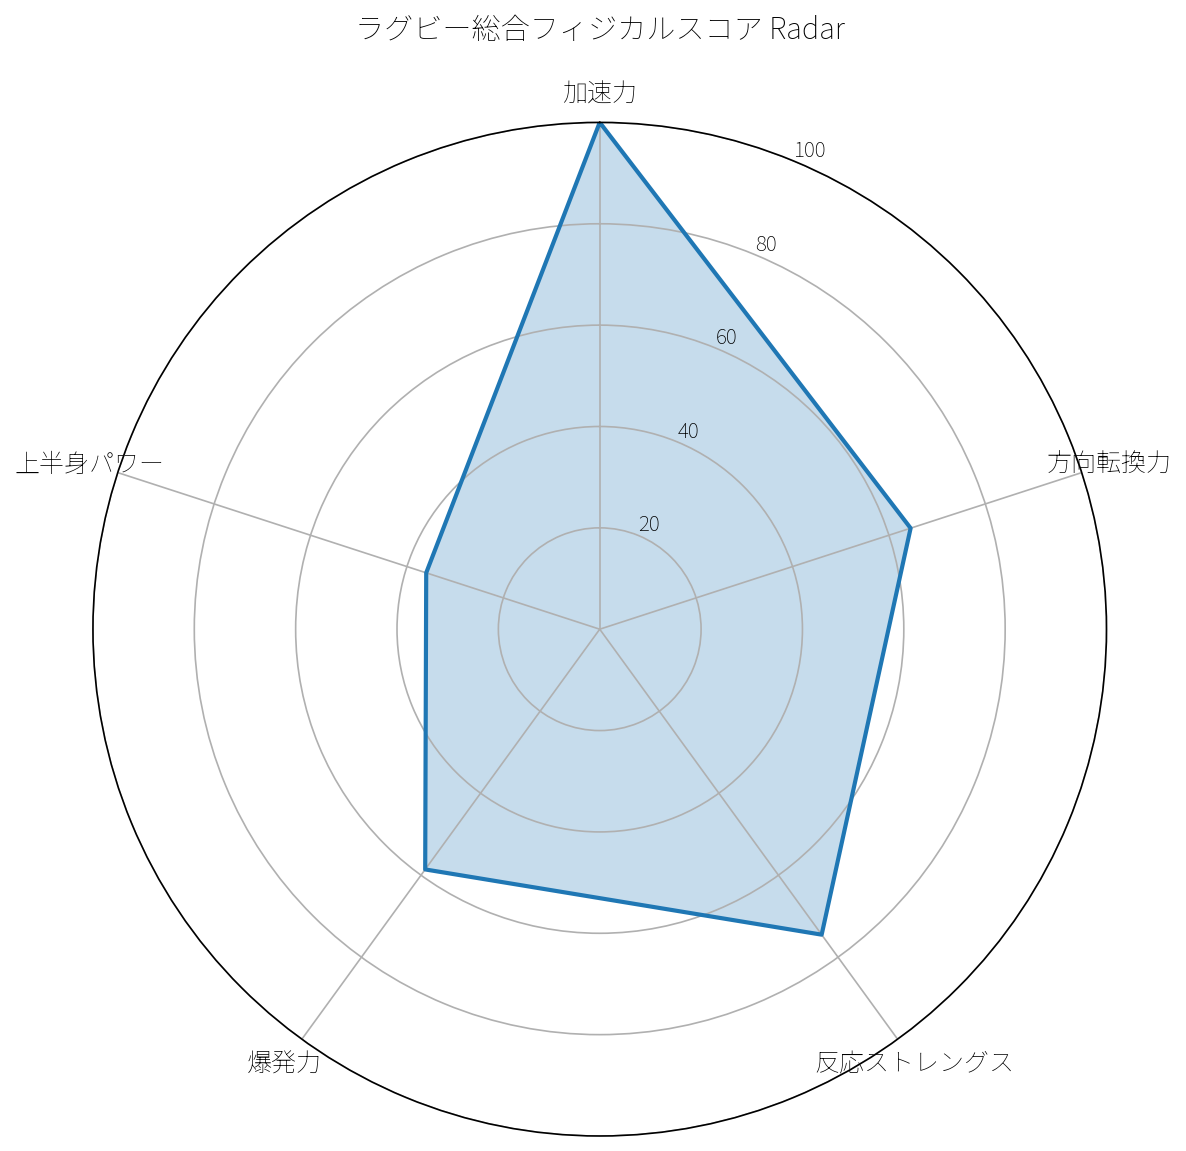
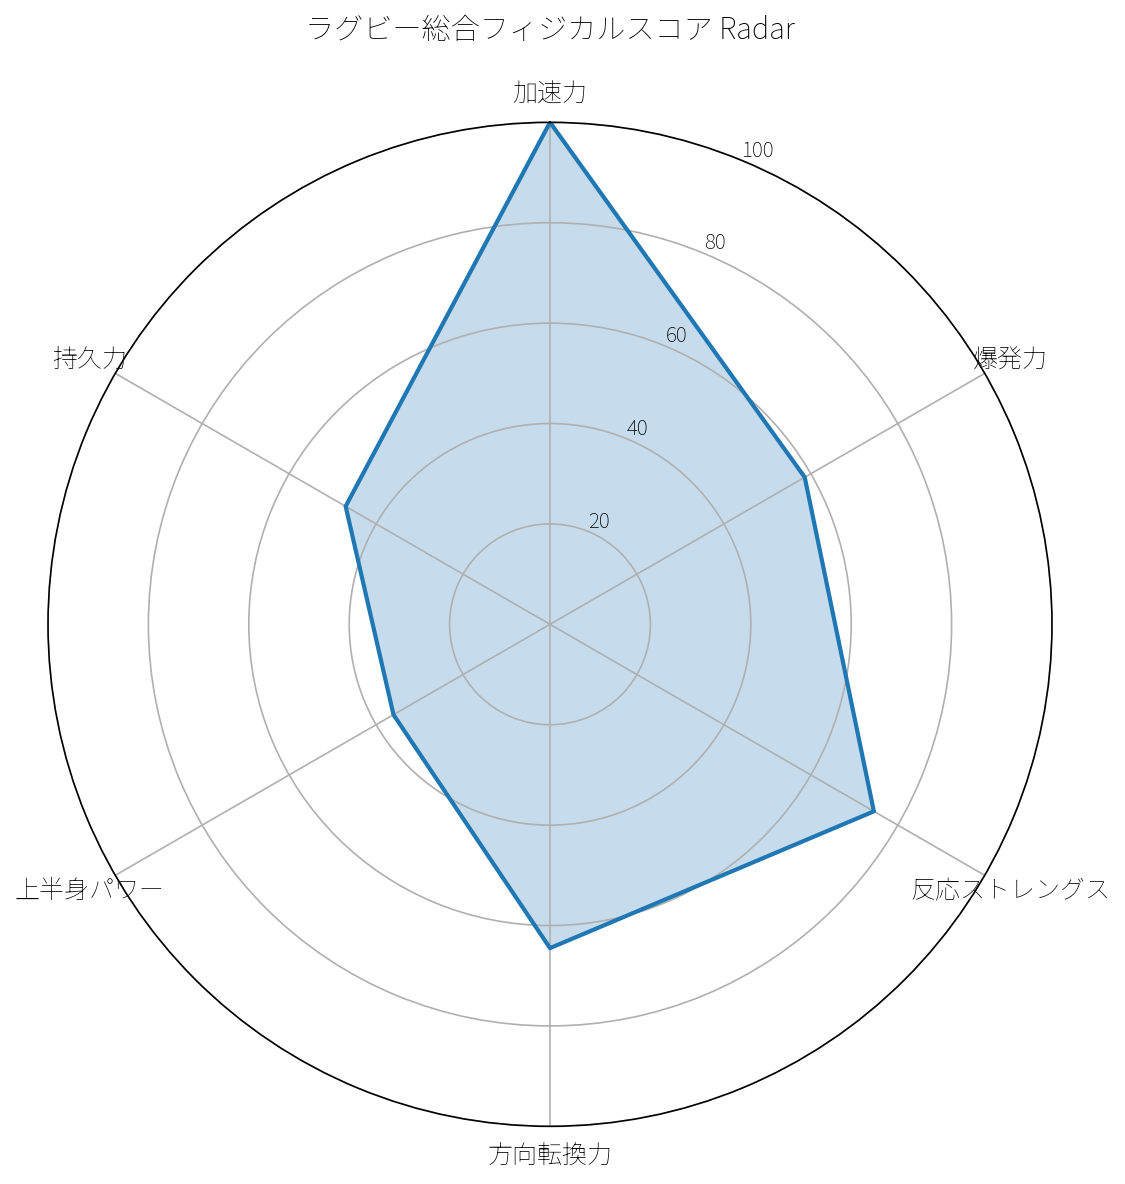
Fix radar chart to always show six domains

diff --git a/scripts/generate_radar_chart.py b/scripts/generate_radar_chart.py
@@ -26,10 +26,11 @@ OUTPUT_PATH = OUTPUT_DIR / "radar_chart.png"
 
 DOMAIN_COLUMNS = [
     ("acceleration_score", "acceleration"),
-    ("cod_score", "cod"),
-    ("reactive_strength_score", "reactive_strength"),
     ("explosive_power_score", "explosive_power"),
+    ("reactive_strength_score", "reactive_strength"),
+    ("cod_score", "cod"),
     ("upper_body_power_score", "upper_body_power"),
+    ("endurance_score", "endurance"),
 ]
 
 
